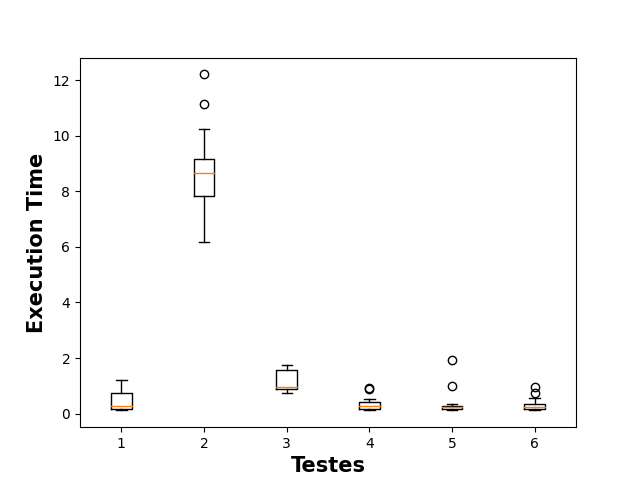
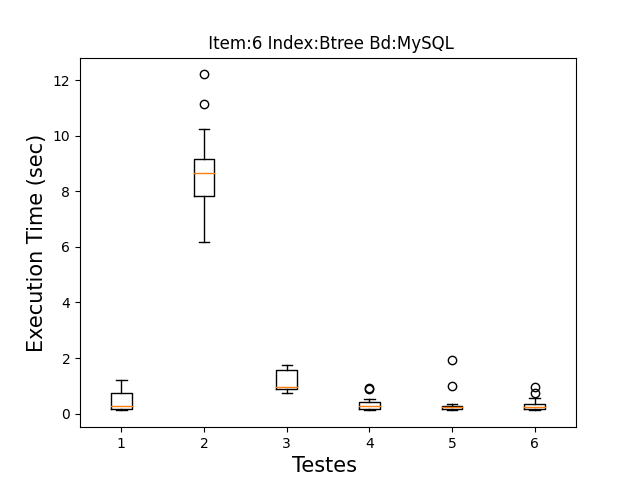
Add new graphs

Changed region(s): [[0.3125, 0.0625, 0.7188, 0.125], [0.0312, 0.2812, 0.0938, 0.75], [0.4375, 0.9375, 0.5625, 1.0]]

diff --git a/resultProces.py b/resultProces.py
@@ -38,7 +38,7 @@ def make_boxplot2(searchByOpJsonObj):
         fig.savefig('./compareSameOpInDiffCenarios/' + str(i) + '.png')
         i = i + 1
 
-def make_boxplot(source, chart_path):
+def make_boxplot(source, chart_path, title):
 
     boxwidth = 0.25
 
@@ -60,8 +60,9 @@ def make_boxplot(source, chart_path):
 
     plt.boxplot(data,widths=boxwidth)
 
-    plt.xlabel('Testes', fontweight ='bold', fontsize = 15)
-    plt.ylabel('Execution Time', fontweight ='bold', fontsize = 15)
+    plt.xlabel('Testes ', fontsize = 15)
+    plt.ylabel('Execution Time (sec)', fontsize = 15)
+    plt.title(title)
 
     plt.savefig(chart_path)
     plt.clf()
@@ -177,35 +178,68 @@ def json_table_path(source):
     return path
 
 def get_json_files(path):
-    roo = os.getcwd() + path
-    print(roo)
     files = []
-    for arquivo in os.listdir(roo ):
+    for arquivo in os.listdir(path):
             if arquivo.endswith(".json"):
-                files.append(os.path.join(roo, arquivo))
+                files.append(os.path.join(path, arquivo))
     return files
 
+def chart_title(file, file_path):
+    name = file.replace(file_path + "/","").replace(".json","")
+    name = name.replace("con"," Item:")
+    name = name.replace("Hash"," Index:Hash").replace("NoIndex"," Index:NoIndex").replace("Btree"," Index:Btree").replace("FullTextIndex"," Index:FullText")
+    name = name.replace("_My"," Bd:MySQL").replace("_Pg"," Bd:Postgres")
+    return name
+
+
 def main():
+    file_path = os.getcwd() + "/results2"
+    files = get_json_files(file_path)
+    for i,file in enumerate(files):
+        chart_path = json_chart_path(file)
+        name = chart_title(file, file_path)
+        make_boxplot(file,chart_path, name)
+
     # path = "/results2"
     # files = get_json_files(path)
-    # for i,file in enumerate(files):
-    #     chart_path = json_chart_path(file)
-    #     make_boxplot(file,chart_path)
-
-    path = "/results2"
-    files = get_json_files(path)
-    for i, file in enumerate(files):
-        table_path = json_table_path(file)
-        make_table(file,file,table_path)
+    # for i, file in enumerate(files):
+    #     table_path = json_table_path(file)
+    #     make_table(file,file,table_path)
 
     # file = '/home/gu/git/MAC0426-Sistemas/organizedResults/enviromentSearch.json'
     # chart_path= json_chart_path(file)
     # make_barplot(file,chart_path)
 
+def extractBoxplotFromData(data, qry, index, folderName):
+    fig, ax = plt.subplots()
+    val = data.values()
+    val = [convert_list_float(x) for x in val]
+    for timeArr in val:
+        if (timeArr == []):
+            timeArr.append(0)
+
+    ax.boxplot(val)
+    ax.set_xticklabels(data.keys())
+    ax.set_title(qry)
+    plt.close(fig)
+    fig.savefig('./compareSameOpInDiffCenarios/' + folderName + '/' + str(index) + '.png')
+
+
+def make_boxplot2(searchByOpJsonObj):
+    i = 0
+    for qry, values in searchByOpJsonObj.items():
+        pgData = values['Pg']
+        mySqlData = values['MySql']
+
+        extractBoxplotFromData(pgData, qry, i, 'Pg')
+        extractBoxplotFromData(mySqlData, qry, i, 'MySql')
+
+        i = i + 1
+ 
 def main2():
     f = open('./organizedResults/operationSearch.json')
     jsonObj = json.load(f)
     make_boxplot2(jsonObj)
 
 if __name__ =='__main__':
-    main()
+    main2()
